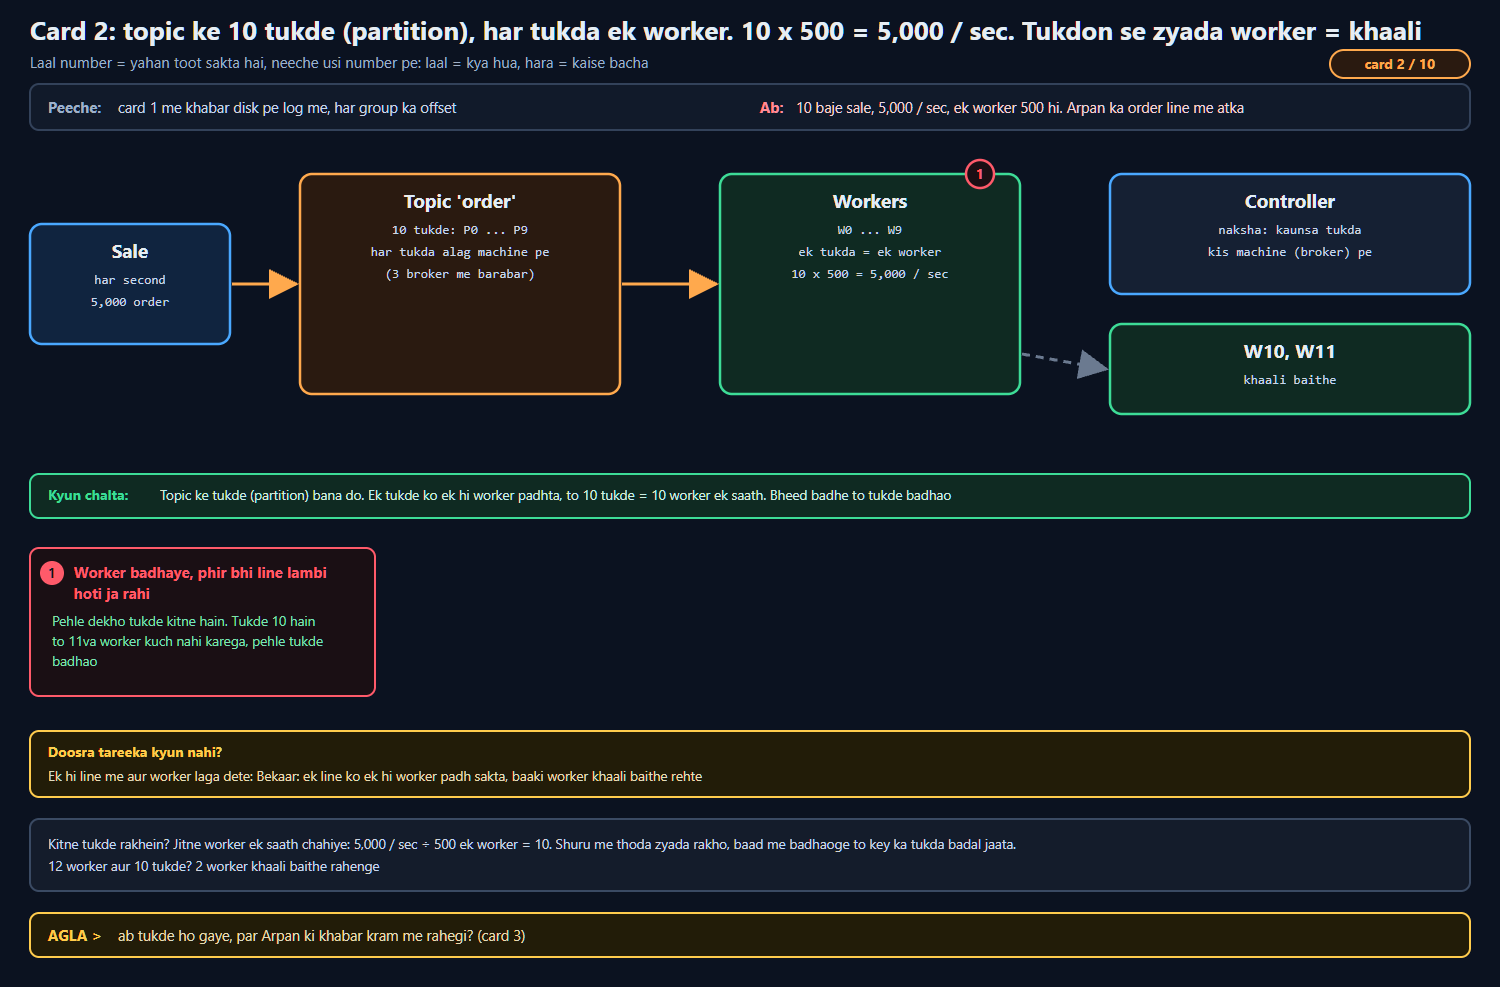
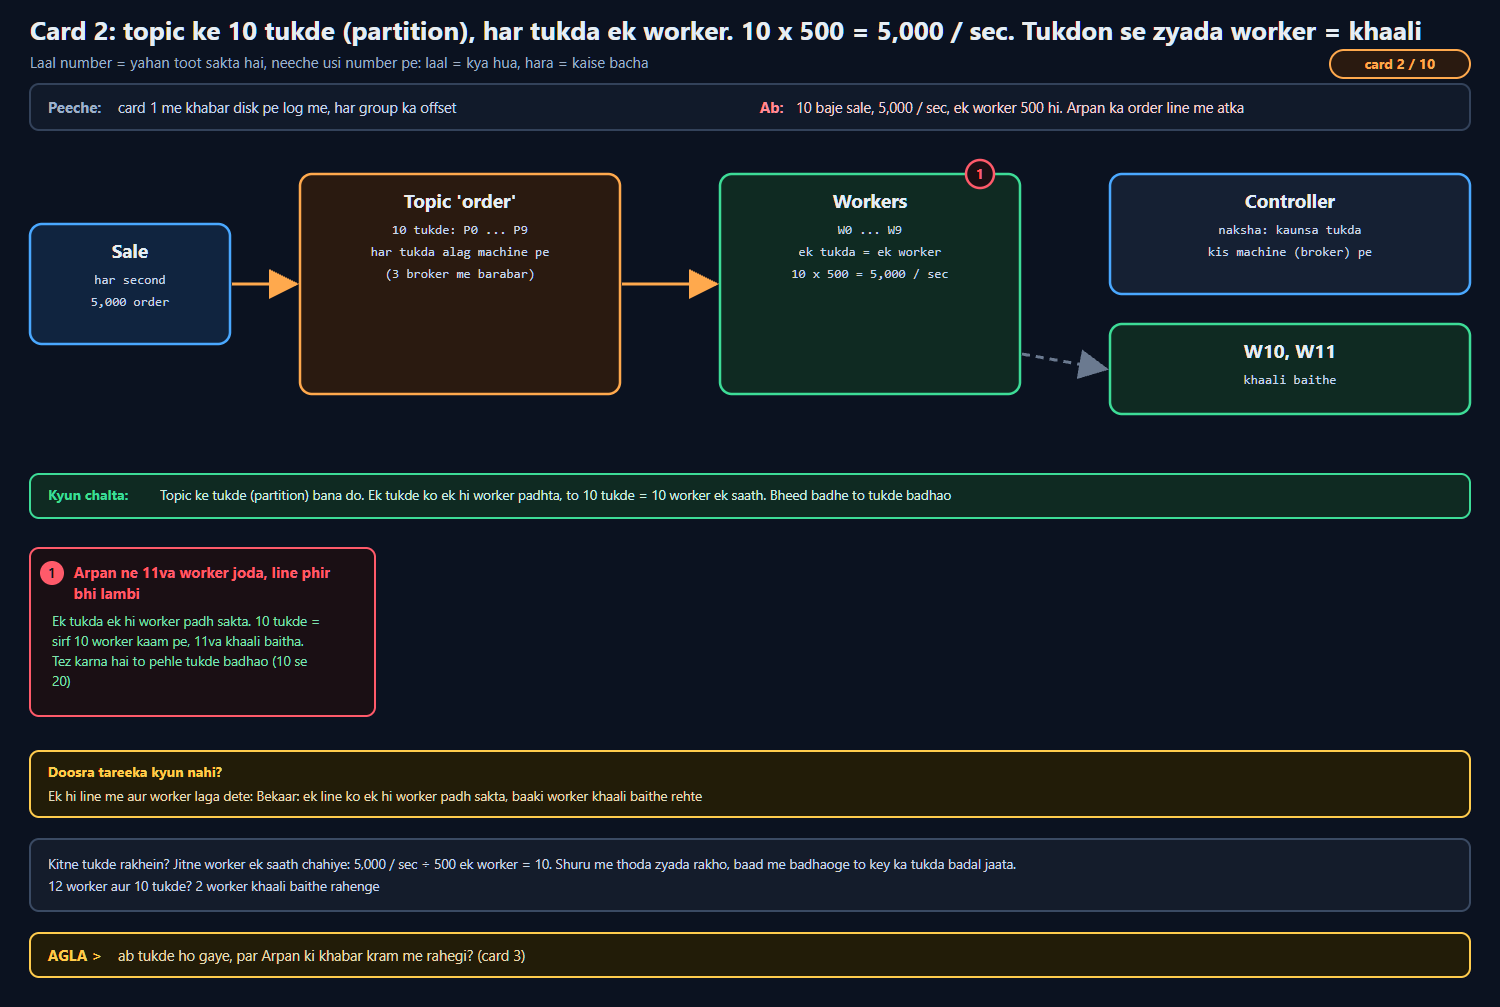
kafka c2: 11va worker wali line seedhi

diff --git a/04_HLD/SYSTEM_DESIGNS/12_message_queue_kafka/img/c2_poster.html b/04_HLD/SYSTEM_DESIGNS/12_message_queue_kafka/img/c2_poster.html
@@ -2,13 +2,13 @@
 <meta charset="utf-8">
 <title>Card 2: topic ke 10 tukde (partition), h</title>
 <style>body{margin:0;background:#0b1220} svg text{font-family:"Segoe UI",Arial,sans-serif} .m{font-family:Consolas,monospace}</style>
-<svg width="1500" height="987" viewBox="0 0 1500 987" xmlns="http://www.w3.org/2000/svg"><defs>
+<svg width="1500" height="1007" viewBox="0 0 1500 1007" xmlns="http://www.w3.org/2000/svg"><defs>
 <marker id="ablue" markerWidth="10" markerHeight="10" refX="9" refY="5" orient="auto"><path d="M0,0 L10,5 L0,10 Z" fill="#4aa8ff"/></marker>
 <marker id="agreen" markerWidth="10" markerHeight="10" refX="9" refY="5" orient="auto"><path d="M0,0 L10,5 L0,10 Z" fill="#3ddc97"/></marker>
 <marker id="apurple" markerWidth="10" markerHeight="10" refX="9" refY="5" orient="auto"><path d="M0,0 L10,5 L0,10 Z" fill="#a98bff"/></marker>
 <marker id="agrey" markerWidth="10" markerHeight="10" refX="9" refY="5" orient="auto"><path d="M0,0 L10,5 L0,10 Z" fill="#6b7a90"/></marker>
 <marker id="aorange" markerWidth="10" markerHeight="10" refX="9" refY="5" orient="auto"><path d="M0,0 L10,5 L0,10 Z" fill="#ffa94d"/></marker>
-</defs><rect width="1500" height="987" fill="#0b1220"/>
+</defs><rect width="1500" height="1007" fill="#0b1220"/>
 <text x="30" y="40" font-size="26" font-weight="700" fill="#e6edf3">Card 2: topic ke 10 tukde (partition), har tukda ek worker. 10 x 500 = 5,000 / sec. Tukdon se zyada worker = khaali</text>
 <text x="30" y="68" font-size="15" fill="#9fb0c8">Laal number = yahan toot sakta hai, neeche usi number pe: laal = kya hua, hara = kaise bacha</text>
 <rect x="1330" y="50" width="140" height="28" rx="14" fill="#2a1a10" stroke="#ffa94d" stroke-width="2"/>
@@ -47,21 +47,22 @@
 <rect x="30" y="474" width="1440" height="44" rx="9" fill="#0f2a22" stroke="#3ddc97" stroke-width="2"/>
 <text x="48" y="500" font-size="14" font-weight="700" fill="#3ddc97">Kyun chalta:</text>
 <text x="160" y="500" font-size="13.5" fill="#cfeee0">Topic ke tukde (partition) bana do. Ek tukde ko ek hi worker padhta, to 10 tukde = 10 worker ek saath. Bheed badhe to tukde badhao</text>
-<rect x="30" y="548" width="345" height="148" rx="9" fill="#1a0f14" stroke="#ff5a6a" stroke-width="2"/>
+<rect x="30" y="548" width="345" height="168" rx="9" fill="#1a0f14" stroke="#ff5a6a" stroke-width="2"/>
 <circle cx="52" cy="573" r="12" fill="#ff5a6a"/>
 <text x="52" y="578" font-size="13" font-weight="700" fill="#0b1220" text-anchor="middle">1</text>
-<text x="74" y="578" font-size="15" font-weight="700" fill="#ff5a6a">Worker badhaye, phir bhi line lambi</text>
-<text x="74" y="599" font-size="15" font-weight="700" fill="#ff5a6a">hoti ja rahi</text>
-<text x="52" y="626" font-size="13.5" fill="#7fe0b0">Pehle dekho tukde kitne hain. Tukde 10 hain</text>
-<text x="52" y="646" font-size="13.5" fill="#7fe0b0">to 11va worker kuch nahi karega, pehle tukde</text>
-<text x="52" y="666" font-size="13.5" fill="#7fe0b0">badhao</text>
-<rect x="30" y="731" width="1440" height="66" rx="9" fill="#221c08" stroke="#ffcc4d" stroke-width="2"/>
-<text x="48" y="757" font-size="14" font-weight="700" fill="#ffcc4d">Doosra tareeka kyun nahi?</text>
-<text x="48" y="781" font-size="13.5" fill="#e6dcb8">Ek hi line me aur worker laga dete: Bekaar: ek line ko ek hi worker padh sakta, baaki worker khaali baithe rehte</text>
-<rect x="30" y="819" width="1440" height="72" rx="9" fill="#141c2b" stroke="#3a4a63" stroke-width="2"/>
-<text x="48" y="849" font-size="13.5" fill="#c9d6e8">Kitne tukde rakhein? Jitne worker ek saath chahiye: 5,000 / sec ÷ 500 ek worker = 10. Shuru me thoda zyada rakho, baad me badhaoge to key ka tukda badal jaata.</text>
-<text x="48" y="871" font-size="13.5" fill="#c9d6e8">12 worker aur 10 tukde? 2 worker khaali baithe rahenge</text>
-<rect x="30" y="913" width="1440" height="44" rx="9" fill="#221c08" stroke="#ffcc4d" stroke-width="2"/>
-<text x="48" y="941" font-size="15" font-weight="700" fill="#ffcc4d">AGLA &gt;</text>
-<text x="118" y="941" font-size="14.5" fill="#e6dcb8">ab tukde ho gaye, par Arpan ki khabar kram me rahegi? (card 3)</text>
+<text x="74" y="578" font-size="15" font-weight="700" fill="#ff5a6a">Arpan ne 11va worker joda, line phir</text>
+<text x="74" y="599" font-size="15" font-weight="700" fill="#ff5a6a">bhi lambi</text>
+<text x="52" y="626" font-size="13.5" fill="#7fe0b0">Ek tukda ek hi worker padh sakta. 10 tukde =</text>
+<text x="52" y="646" font-size="13.5" fill="#7fe0b0">sirf 10 worker kaam pe, 11va khaali baitha.</text>
+<text x="52" y="666" font-size="13.5" fill="#7fe0b0">Tez karna hai to pehle tukde badhao (10 se</text>
+<text x="52" y="686" font-size="13.5" fill="#7fe0b0">20)</text>
+<rect x="30" y="751" width="1440" height="66" rx="9" fill="#221c08" stroke="#ffcc4d" stroke-width="2"/>
+<text x="48" y="777" font-size="14" font-weight="700" fill="#ffcc4d">Doosra tareeka kyun nahi?</text>
+<text x="48" y="801" font-size="13.5" fill="#e6dcb8">Ek hi line me aur worker laga dete: Bekaar: ek line ko ek hi worker padh sakta, baaki worker khaali baithe rehte</text>
+<rect x="30" y="839" width="1440" height="72" rx="9" fill="#141c2b" stroke="#3a4a63" stroke-width="2"/>
+<text x="48" y="869" font-size="13.5" fill="#c9d6e8">Kitne tukde rakhein? Jitne worker ek saath chahiye: 5,000 / sec ÷ 500 ek worker = 10. Shuru me thoda zyada rakho, baad me badhaoge to key ka tukda badal jaata.</text>
+<text x="48" y="891" font-size="13.5" fill="#c9d6e8">12 worker aur 10 tukde? 2 worker khaali baithe rahenge</text>
+<rect x="30" y="933" width="1440" height="44" rx="9" fill="#221c08" stroke="#ffcc4d" stroke-width="2"/>
+<text x="48" y="961" font-size="15" font-weight="700" fill="#ffcc4d">AGLA &gt;</text>
+<text x="118" y="961" font-size="14.5" fill="#e6dcb8">ab tukde ho gaye, par Arpan ki khabar kram me rahegi? (card 3)</text>
 </svg>

diff --git a/04_HLD/SYSTEM_DESIGNS/12_message_queue_kafka/12_message_queue_kafka.md b/04_HLD/SYSTEM_DESIGNS/12_message_queue_kafka/12_message_queue_kafka.md
@@ -69,7 +69,7 @@ PEHLE   sabse simple = ek machine, uski memory me ek queue. Producer daale, cons
 
 **Rail 2 BHEED AAYI** · Cue: PARTITION (tukde, alag machine)
 
-<img src="img/c2_poster.png?v=5" width="1000" alt="card 2: kya toota, kaise bacha">
+<img src="img/c2_poster.png?v=5b" width="1000" alt="card 2: kya toota, kaise bacha">
 
 
 ---
